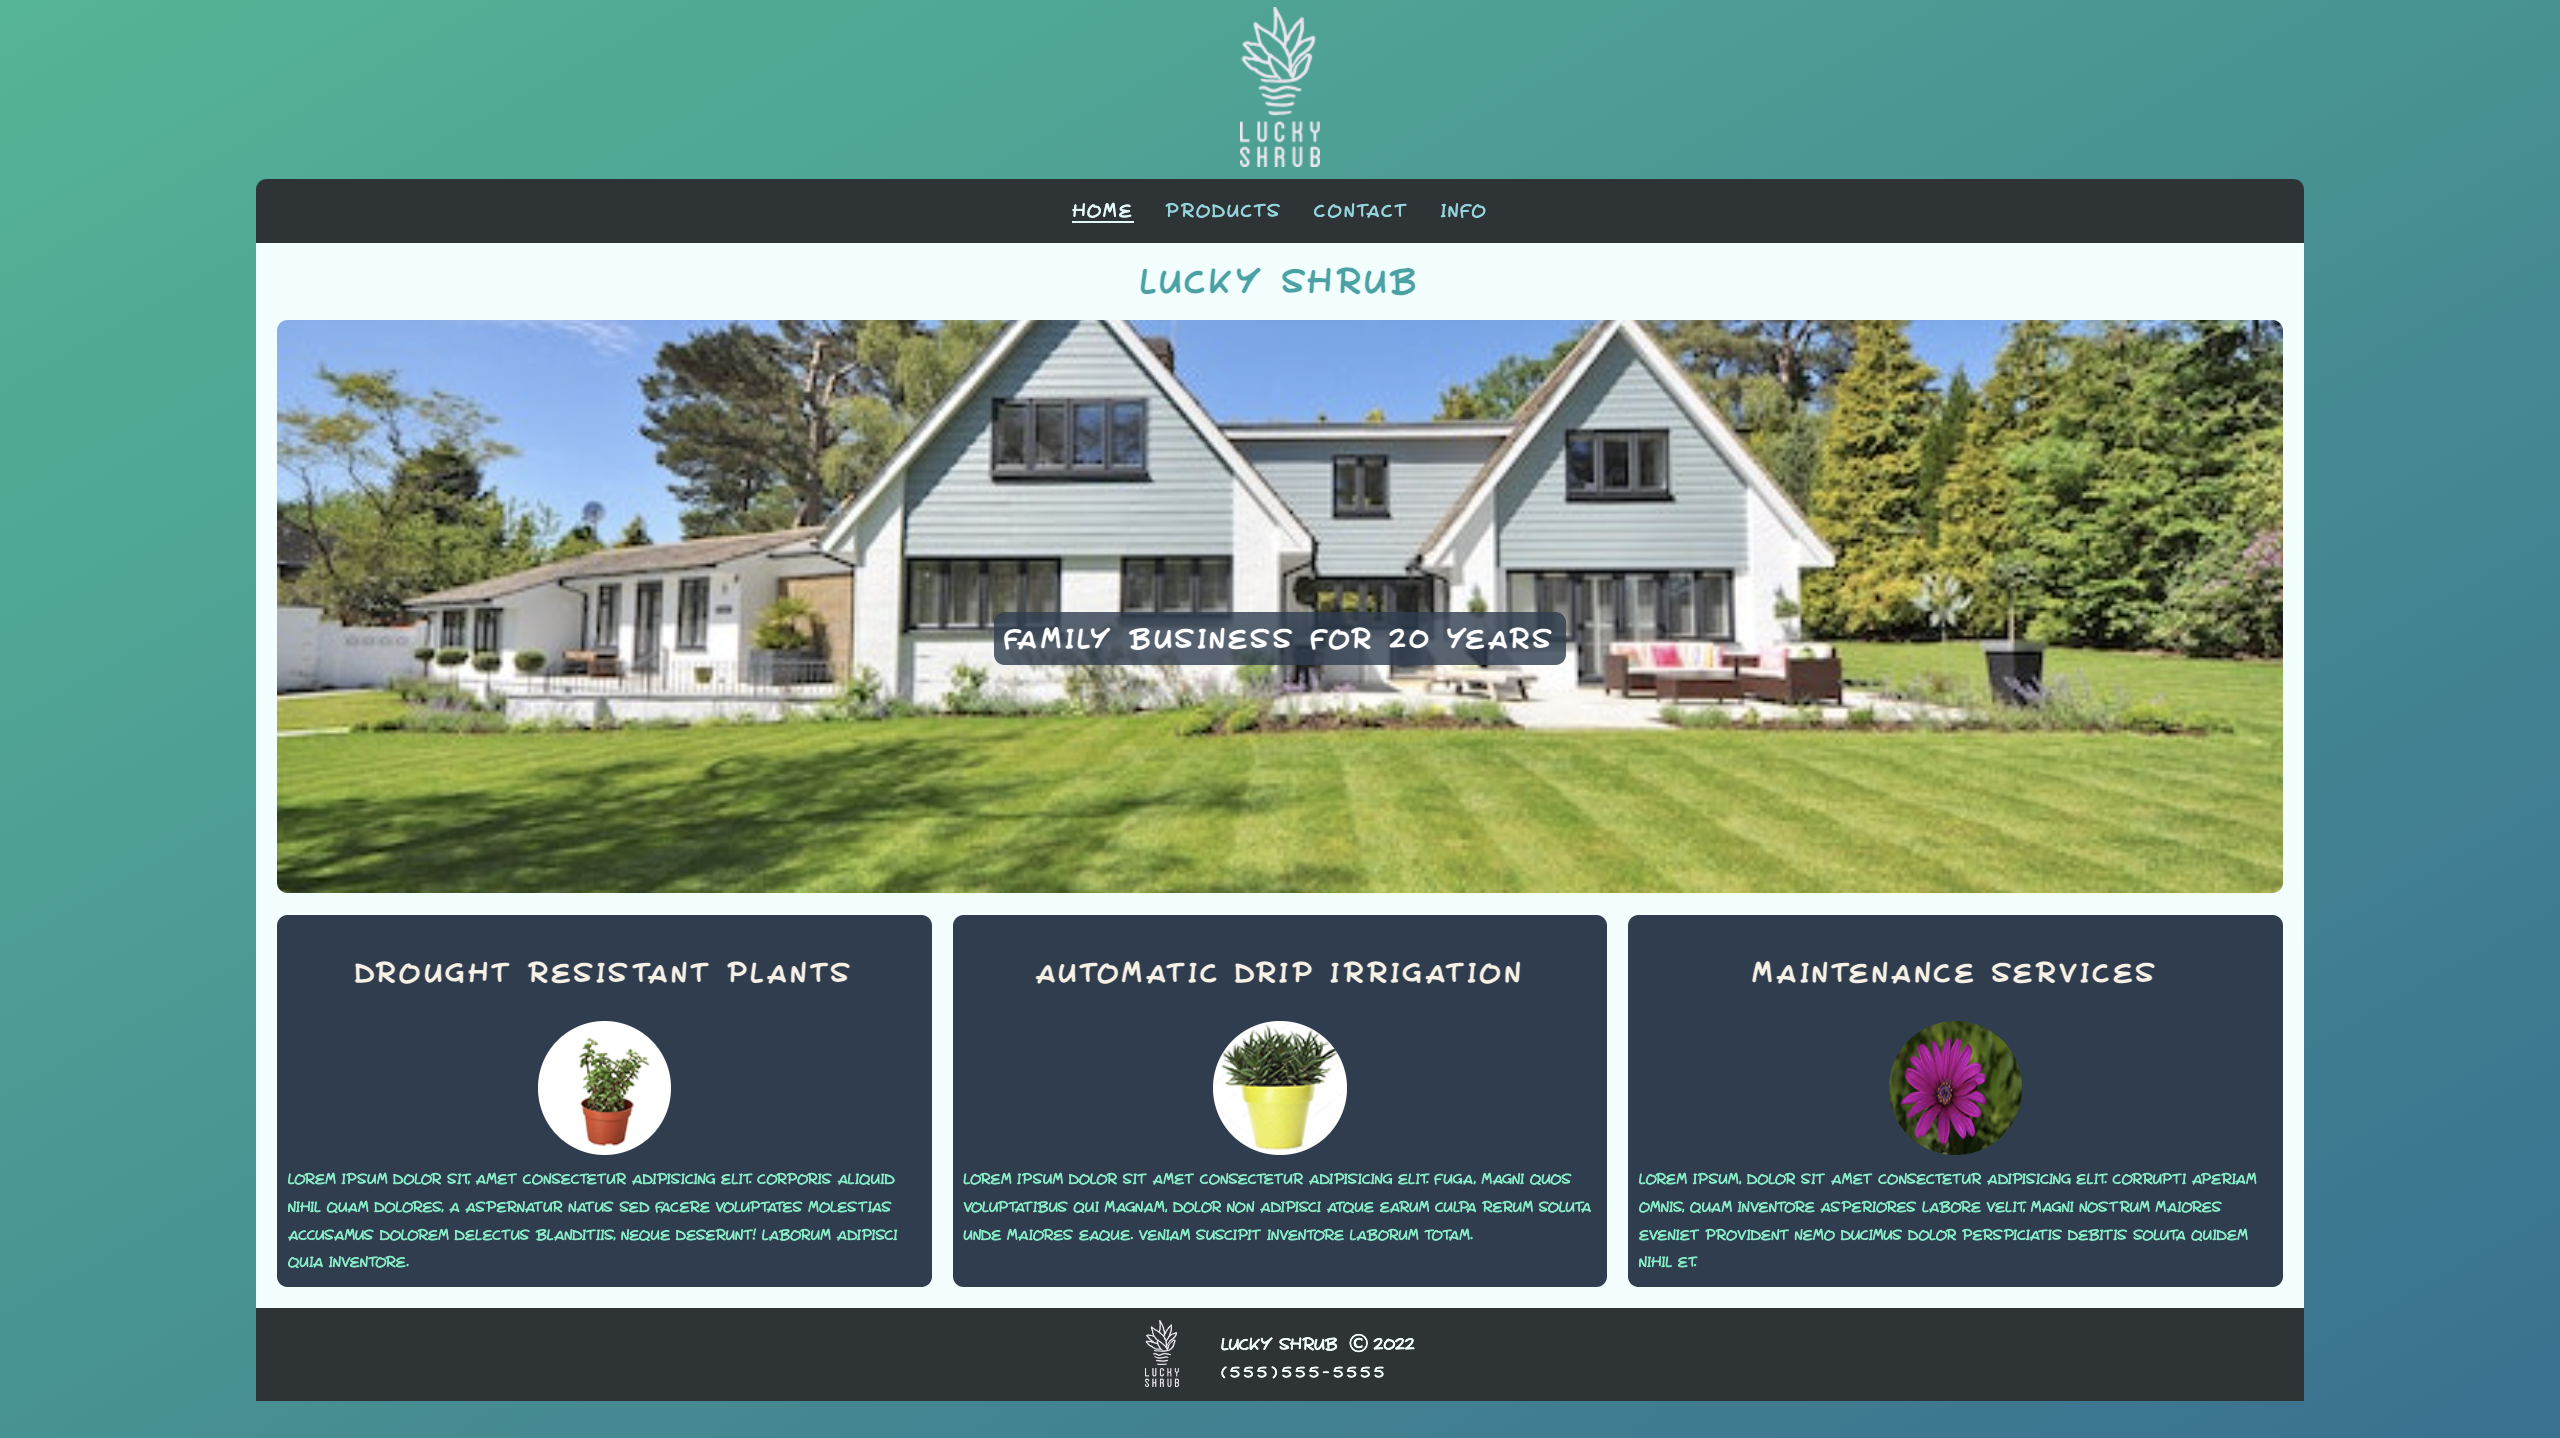
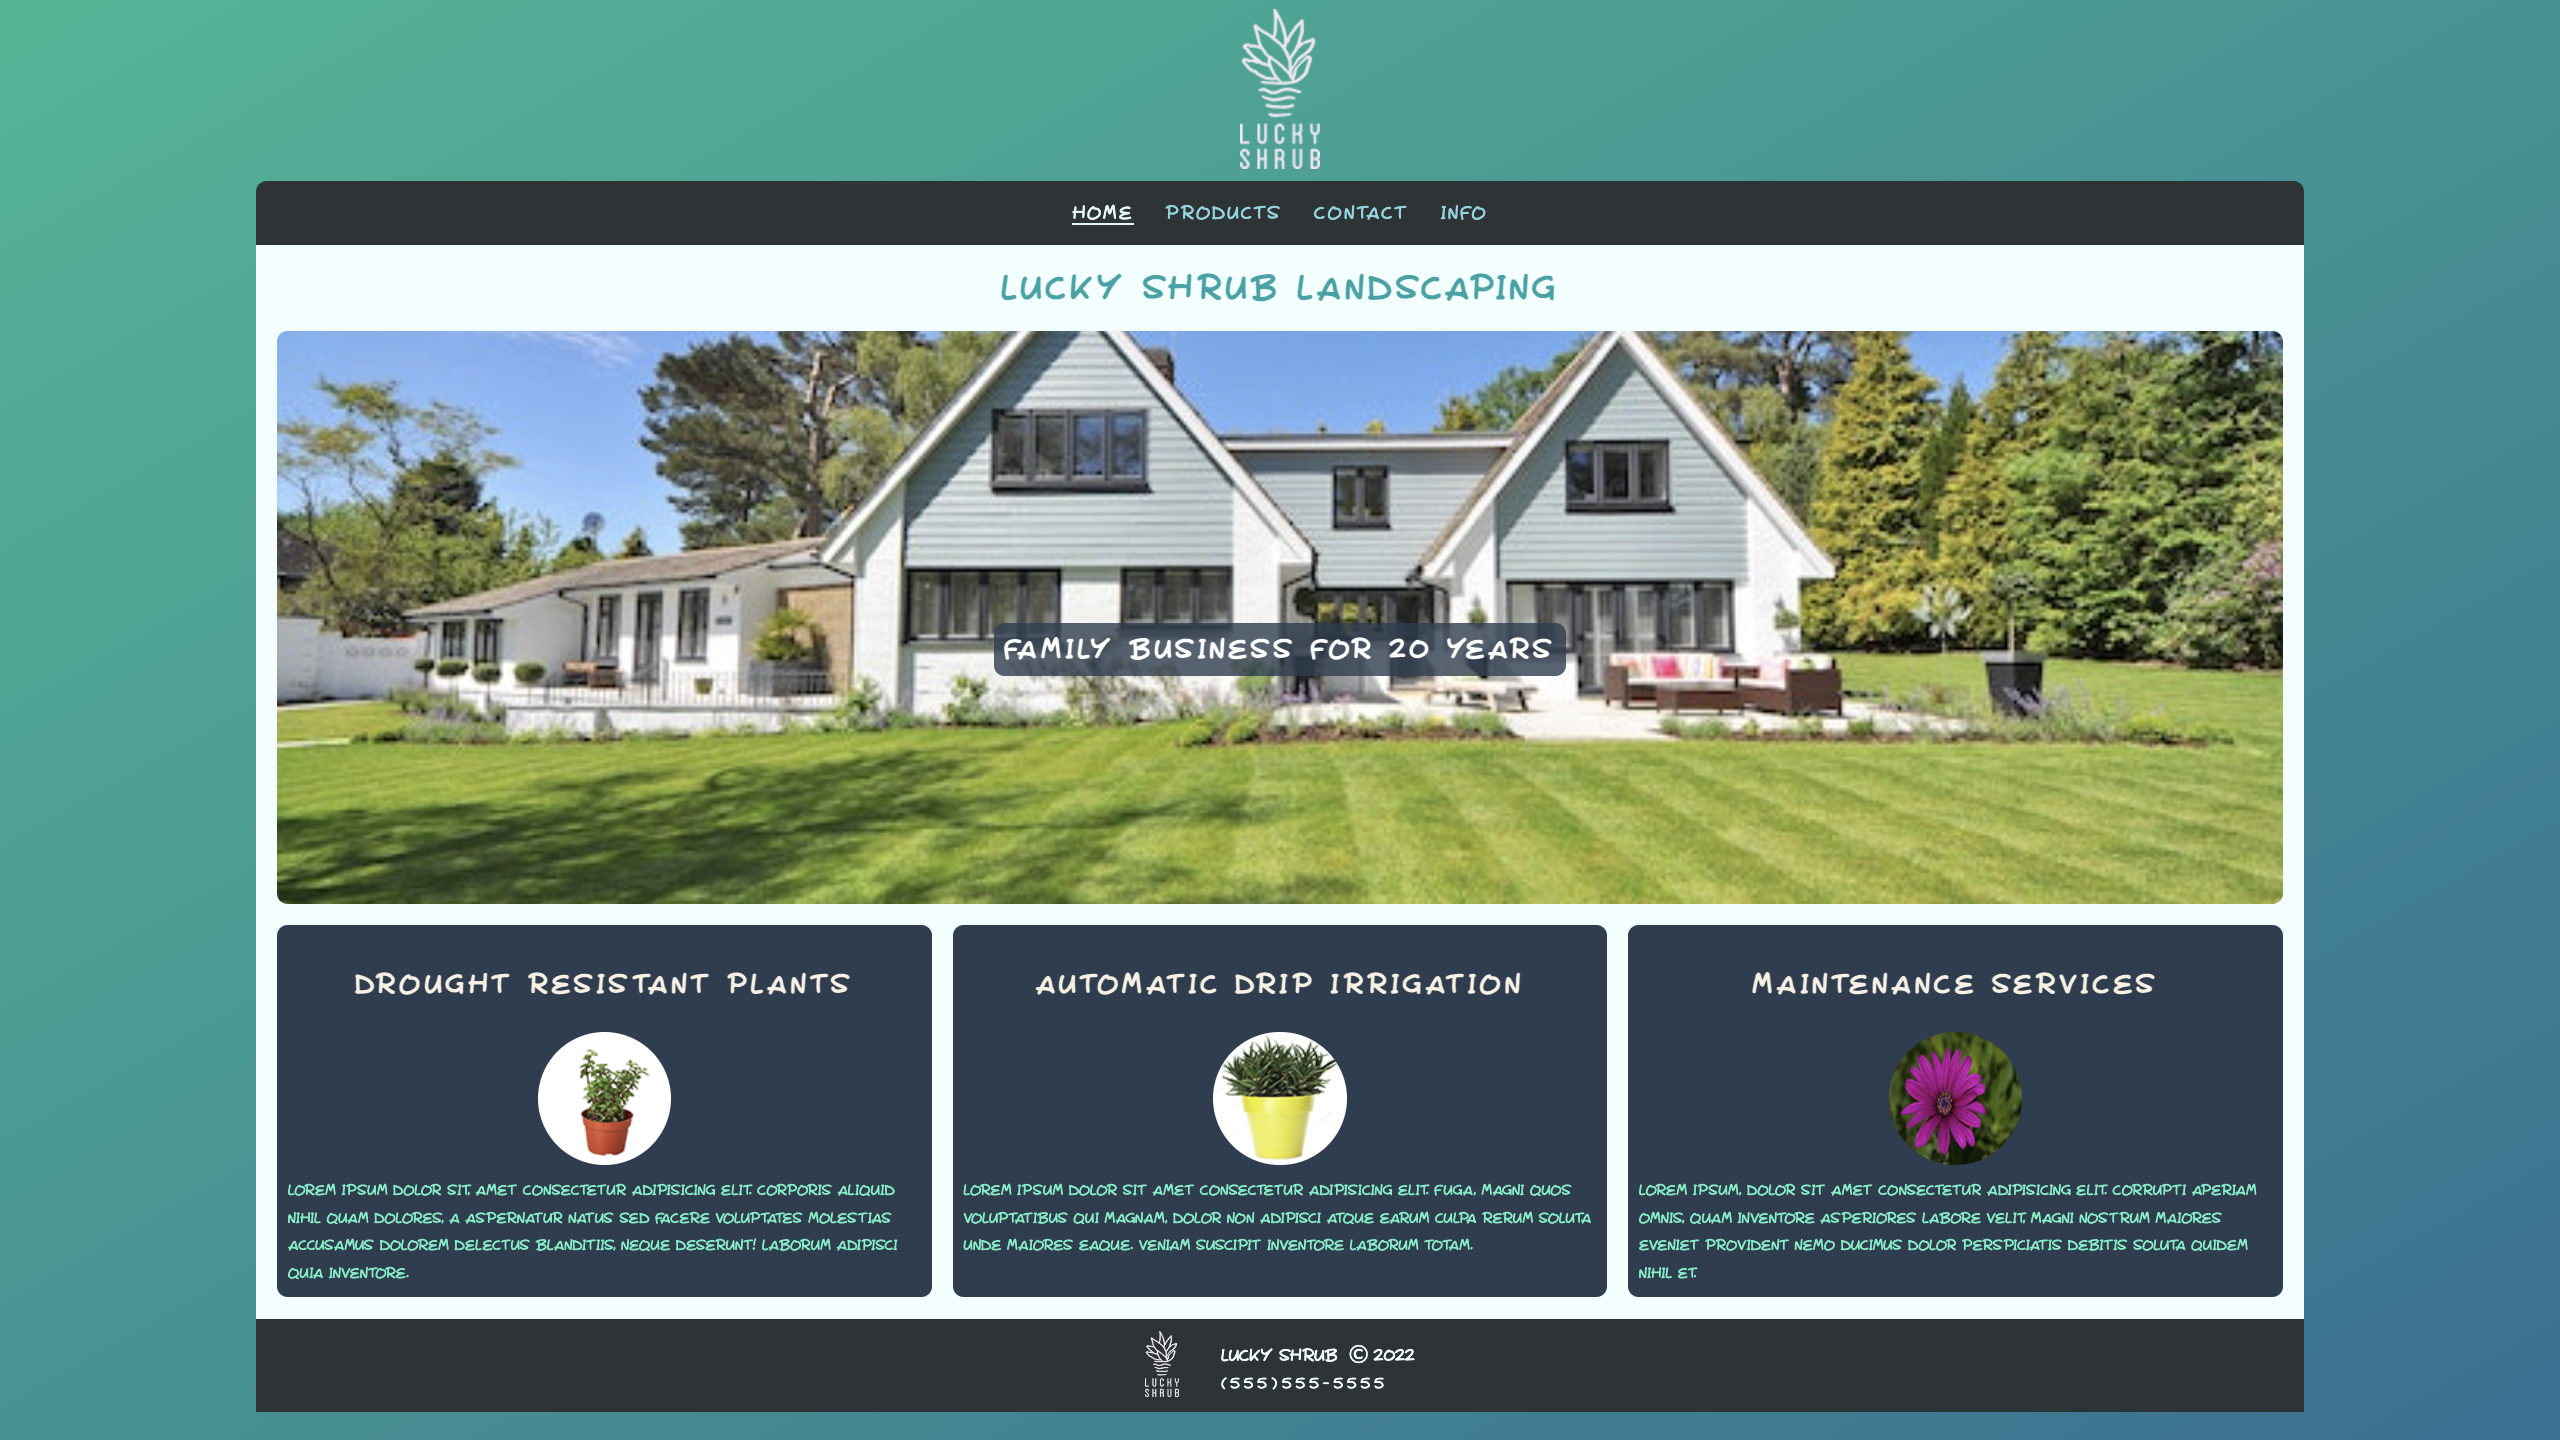
Change h1 to include "Landscaping"

Changed region(s): [[0.0938, 0.1836, 0.9062, 0.6426], [0.0938, 0.6732, 0.9062, 0.9791], [0.4062, 0.0306, 0.5938, 0.153]]

diff --git a/index.html b/index.html
@@ -41,7 +41,7 @@
       </nav>
     </header>
     <main>
-      <h1>Lucky Shrub</h1>
+      <h1>Lucky Shrub Landscaping</h1>
       <section class="banner">
         <h2 class="text"></h2>
       </section>

diff --git a/css/style.css b/css/style.css
@@ -122,6 +122,7 @@ h1 {
   color: rgba(1, 163, 164, 1);
   font-size: 2rem;
   letter-spacing: 0.2rem;
+  line-height: 2rem;
   margin: 0.5rem 0;
   text-align: center;
 }

diff --git a/README.md b/README.md
@@ -1,4 +1,4 @@
 # <a href="https://tariq-k-dev.github.io/lucky-shrub/" target="_blank">Lucky Shrub Landing Page</a>
 <a href="https://tariq-k-dev.github.io/lucky-shrub/" target="_blank">![Lucky-Shrub-Site](./images/Lucky-Shrub-Page.png)</a>
 
-An HTML, CSS, JavaScript landing page to demo responsive layout and simple CSS animation.
+An HTML, CSS, JavaScript landing page to demo responsive layout and simple CSS animations for a fictitious landscaping business.
